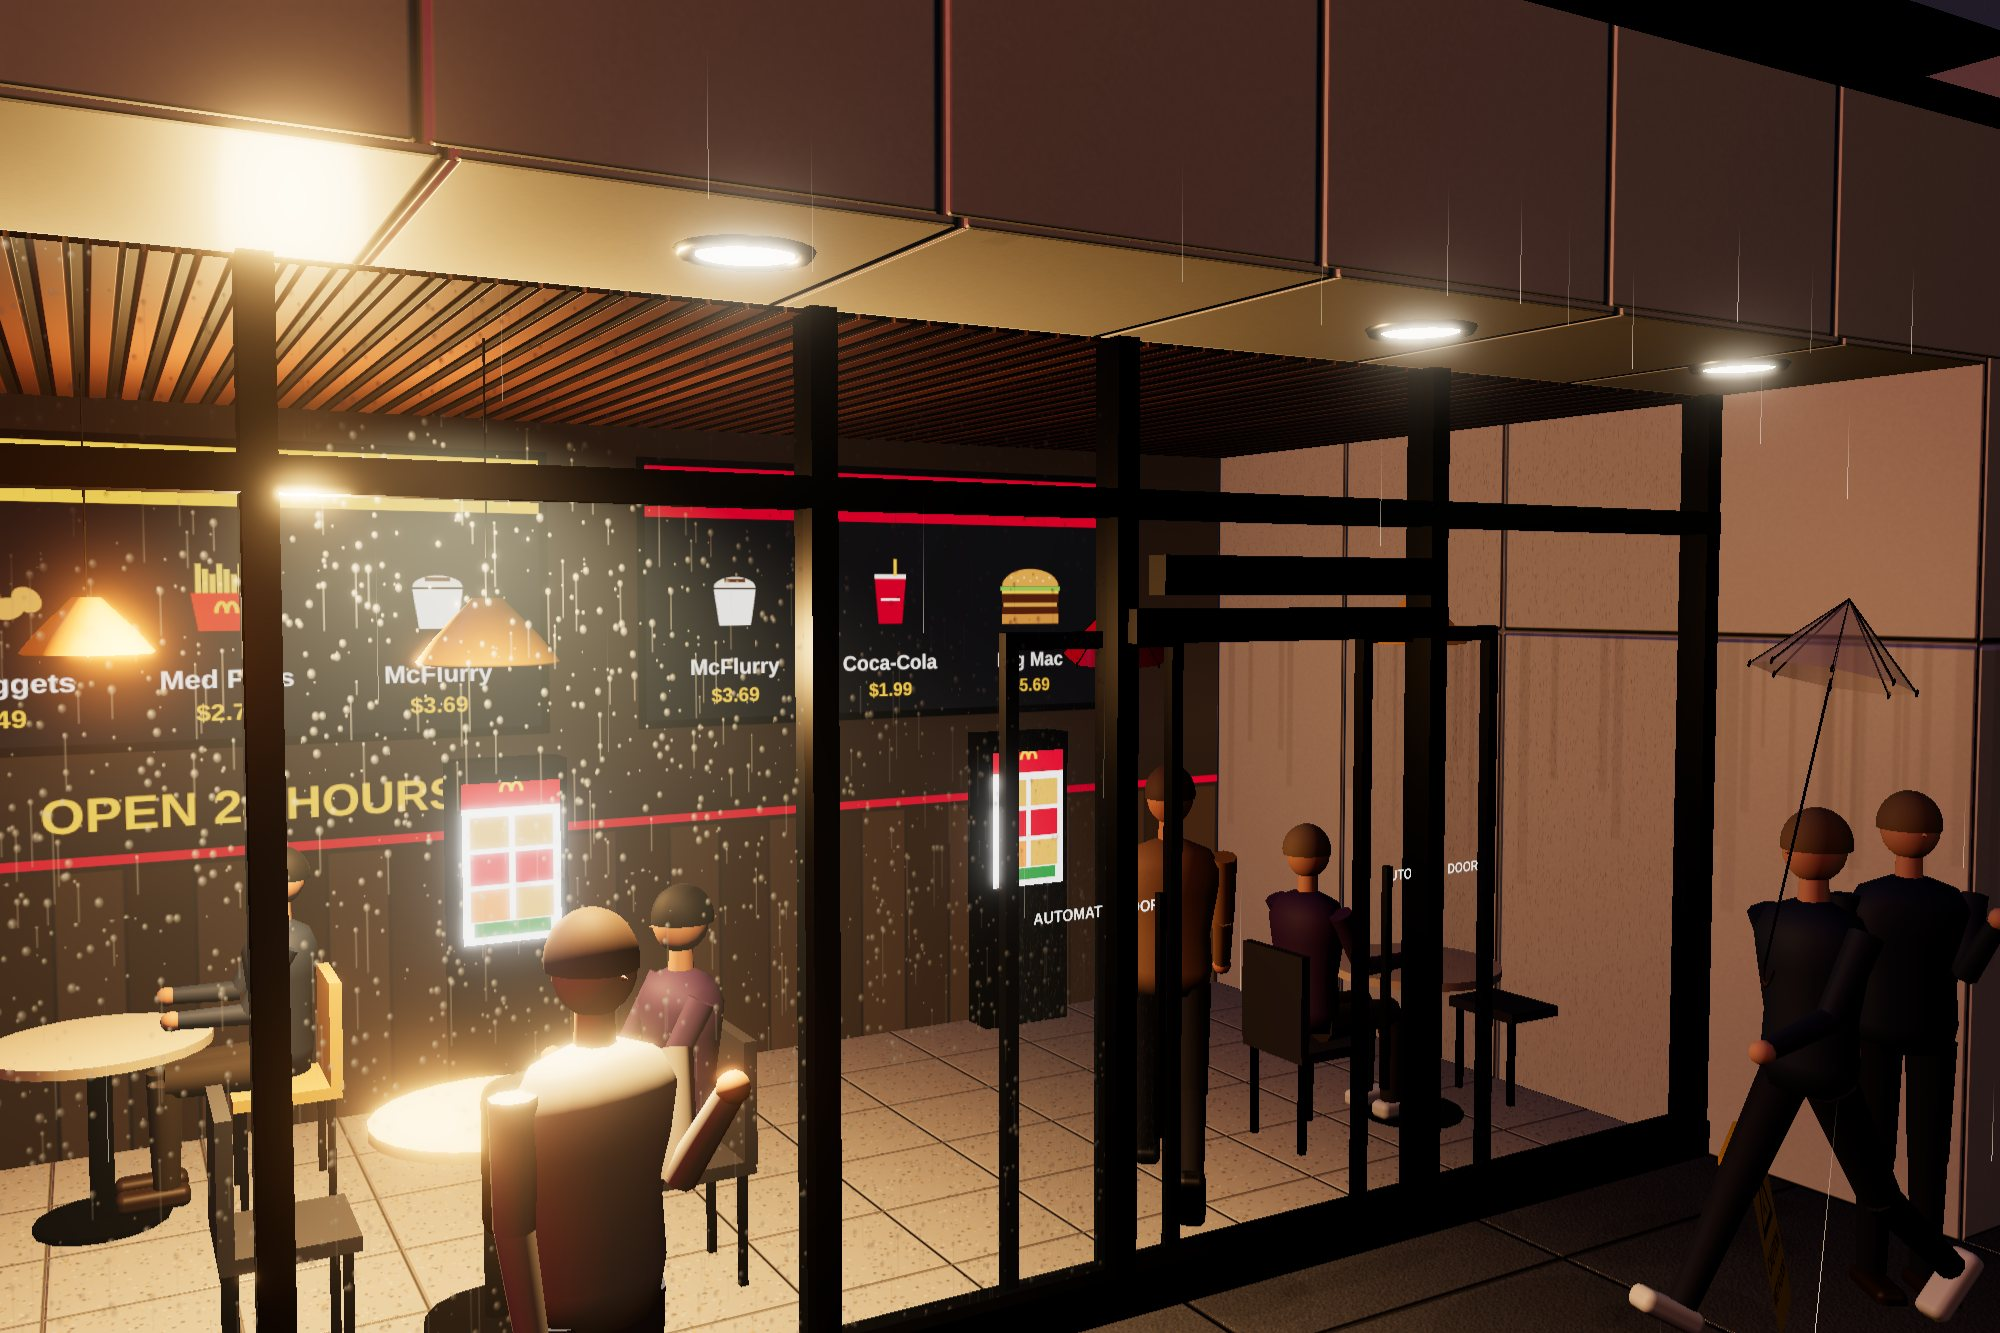
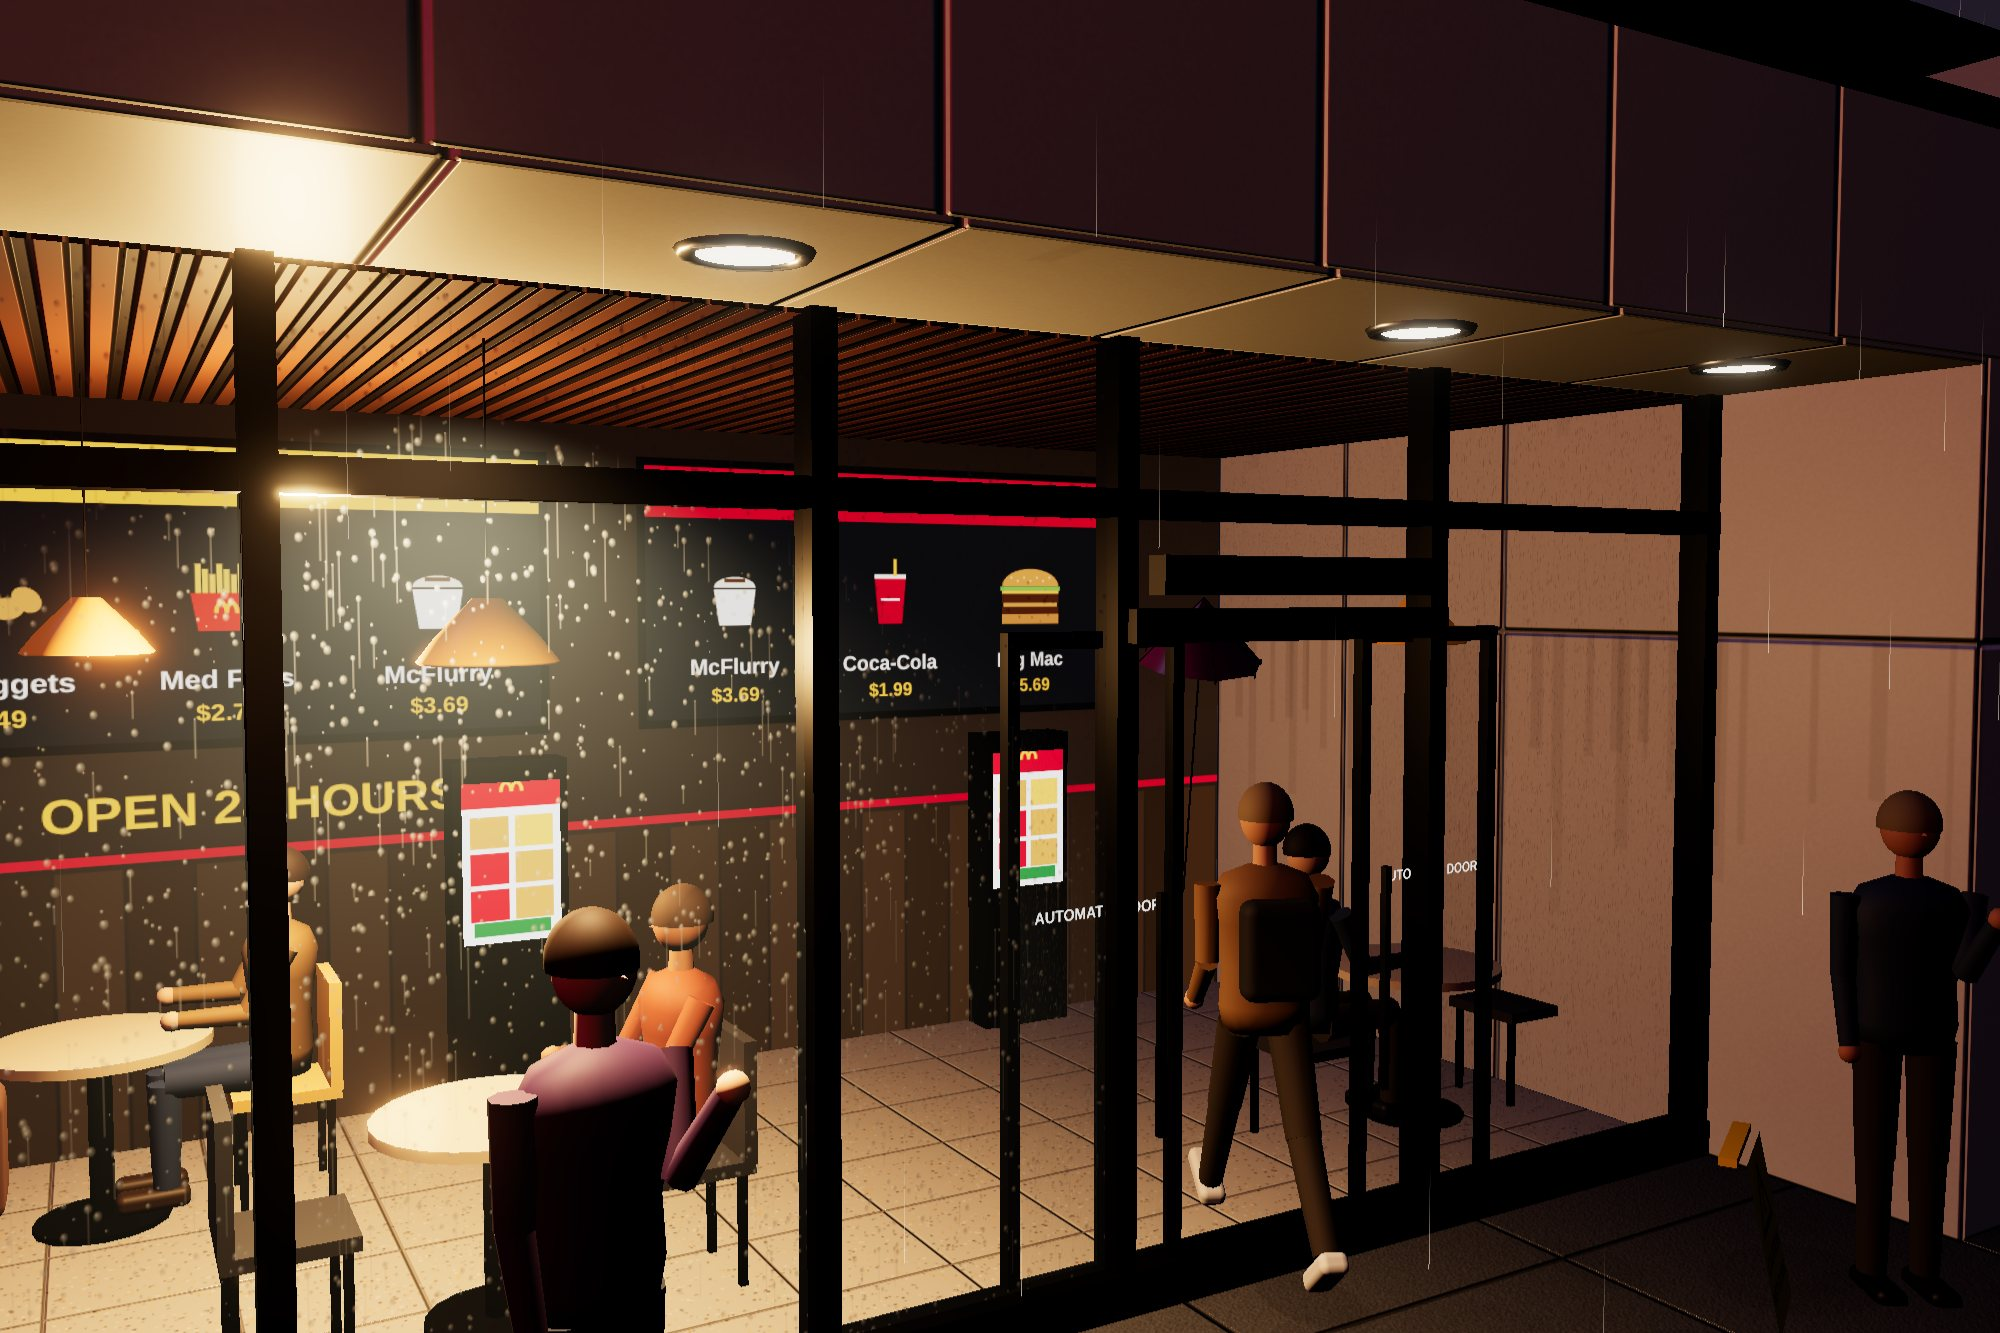
style(drive-thru): turn every glow layer down to a trace
Bloom alone was not the problem; street lamps and headlamps each stack
several glowing layers. All of them come down together:

- bloom strength 0.2 -> 0.06, radius 0.22 -> 0.15, threshold 1.05 -> 1.25
- street lamps: head 4 -> 1.5, light 110 -> 55, shaft .3 -> .07, ground
  pools roughly a quarter
- cars: headlamps 4 -> 1.5, road pools .55 -> .12, beams .12 -> .025,
  tail/brake/indicator lamps about a third
- wet-ground reflection dimmed (mirror tint 0x8794a6 -> 0x4e5560); rain
  lit by nearby lights at under half; LED strips, downlights and pendant
  bulbs a notch down
- stills re-shot; README notes the glow budget

Claude-Session: https://claude.ai/code/session_01X94E3mkS9WyU9NzztKNGpt

diff --git a/cases/library/drive-thru/drive-thru.js b/cases/library/drive-thru/drive-thru.js
@@ -432,9 +432,9 @@ const M = {
   orange: MS({ color: 0xe0782a, roughness: .5 }),
   paintW: MS({ color: 0xcfd0d1, roughness: .35, transparent: true, opacity: .85, depthWrite: false }),
   paintY: MS({ color: 0xd8ae36, roughness: .35, transparent: true, opacity: .85, depthWrite: false }),
-  led: new THREE.MeshBasicMaterial({ color: lin(2.6, 2.6, 2.45) }),
-  down: new THREE.MeshBasicMaterial({ color: lin(3, 2.6, 2) }),
-  bulb: new THREE.MeshBasicMaterial({ color: lin(4, 3, 1.6) }),
+  led: new THREE.MeshBasicMaterial({ color: lin(1.7, 1.7, 1.6) }),
+  down: new THREE.MeshBasicMaterial({ color: lin(1.6, 1.4, 1.1) }),
+  bulb: new THREE.MeshBasicMaterial({ color: lin(1.8, 1.4, .8) }),
   glass: MS({ map: glassDropTex, color: 0xd6e2ee, transparent: true, roughness: .12, metalness: .2, depthWrite: false, side: THREE.DoubleSide }),
   leaf: MS({ color: 0x1a3020, roughness: .75, flatShading: true }),
   leaf2: MS({ color: 0x23402a, roughness: .75, flatShading: true }),
@@ -546,7 +546,7 @@ const sky = new THREE.Mesh(new THREE.SphereGeometry(500, 32, 16), skyMat);
 scene.add(sky);
 
 const mirror = new Reflector(new THREE.PlaneGeometry(240, 240), {
-  textureWidth: innerWidth * DPR * .5, textureHeight: innerHeight * DPR * .5, color: 0x8794a6, clipBias: .003,
+  textureWidth: innerWidth * DPR * .5, textureHeight: innerHeight * DPR * .5, color: 0x4e5560, clipBias: .003,
 });
 mirror.rotation.x = -PI / 2; scene.add(mirror);
 asphalt.map.repeat.set(34, 34); asphalt.normal.repeat.set(34, 34); wetTex.repeat.set(4, 4);
@@ -818,8 +818,8 @@ function shaftMat(color, opacity, edge = 2) {
   });
 }
 // ---- street lamps
-const coneMat = shaftMat(0xffdcae, .3, .8);
-const lampHeadMat = new THREE.MeshBasicMaterial({ color: lin(4, 3.2, 2.2) });
+const coneMat = shaftMat(0xffdcae, .07, .8);
+const lampHeadMat = new THREE.MeshBasicMaterial({ color: lin(1.5, 1.25, .9) });
 const lampArc = new THREE.TorusGeometry(.8, .05, 6, 16, PI / 2);
 for (const x of [-42, -8, 26, 60]) {
   const z = 29.0;
@@ -828,8 +828,8 @@ for (const x of [-42, -8, 26, 60]) {
   strut([x, 8.8, z + .8], [x, 8.8, z + 2.2], .05, M.black);
   rbox(.5, .14, 1.0, .05, M.black, x, 8.75, z + 2.45);
   const head = new THREE.Mesh(new THREE.PlaneGeometry(.38, .82), lampHeadMat); head.rotation.x = PI / 2; head.position.set(x, 8.67, z + 2.45); P.add(head);
-  if (x === -8 || x === 26) pointLight(0xffc98f, 110, 30, x, 8.4, z + 2.45);
-  lightPool(x, z + 2.45, 16, 0xffc98f, x === -8 || x === 26 ? .25 : .7);
+  if (x === -8 || x === 26) pointLight(0xffc98f, 55, 26, x, 8.4, z + 2.45);
+  lightPool(x, z + 2.45, 14, 0xffc98f, x === -8 || x === 26 ? .06 : .16);
   const cone = new THREE.Mesh(new THREE.CylinderGeometry(.25, 4.6, 8.5, 24, 1, true), coneMat); cone.position.set(x, 4.35, z + 2.45); P.add(cone);
 }
 // ---- distant city
@@ -875,9 +875,9 @@ pointLight(0xffc27a, 24, 12, -6.7, 2.5, 8.8);              // dining room
 downLight(warm, 60, 14, 8.5, 4.5, 11.8, .85);             // timber-box canopy
 downLight(warm, 110, 15, 15.2, 4.5, 2.5, 1.2);            // drive-thru canopy and windows
 pointLight(0xff2a20, 70, 30, -16.2, 10, 13.8);             // pylon
-lightPool(-16.4, 14, 12, 0xffb030, .35);                   // arches glow
-lightPool(1.6, -12.6, 6, 0xdfe8ff, .5);                    // menu board
-lightPool(-.4, 11.5, 10, 0xffffff, .12);                   // sign wash
+lightPool(-16.4, 14, 12, 0xffb030, .1);                    // arches glow
+lightPool(1.6, -12.6, 6, 0xdfe8ff, .15);                   // menu board
+lightPool(-.4, 11.5, 10, 0xffffff, .04);                   // sign wash
 
 // ================================================================ drive-thru path
 const curve = new THREE.CatmullRomCurve3([
@@ -933,10 +933,10 @@ const trimMat = MS({ color: 0x0e0f11, roughness: .5, metalness: .2 });
 const tyreMat = MS({ color: 0x121212, roughness: .85 });
 const rimMat = MS({ color: 0xc4c8ce, roughness: .18, metalness: 1 });
 const rimDark = MS({ color: 0x1a1b1d, roughness: .4, metalness: .6 });
-const headOn = new THREE.MeshBasicMaterial({ color: lin(4, 3.9, 3.5) });
+const headOn = new THREE.MeshBasicMaterial({ color: lin(1.5, 1.45, 1.3) });
 const headOff = MS({ color: 0x8a8a8a, roughness: .15, metalness: .8 });
-const poolMat = new THREE.MeshBasicMaterial({ map: poolTex, color: lin(.55, .5, .42), blending: THREE.AdditiveBlending, transparent: true, depthWrite: false });
-const beamMat = shaftMat(0xfff1d6, .12);
+const poolMat = new THREE.MeshBasicMaterial({ map: poolTex, color: lin(.12, .11, .09), blending: THREE.AdditiveBlending, transparent: true, depthWrite: false });
+const beamMat = shaftMat(0xfff1d6, .025);
 const driverMat = MS({ color: 0x1a1512, roughness: .8 });
 
 const TYPES = {
@@ -1114,9 +1114,9 @@ function updateCars(dt) {
       if (c.wait <= 0) { c.stop++; c.wait = null; if (c.stop === 3) served++; }
     }
     const braking = c.v < .25 || c.v < pv - .01;
-    c.tail.color.setRGB(braking ? 6 : 1.6, braking ? .12 : .03, .03);
+    c.tail.color.setRGB(braking ? 2.2 : .9, braking ? .05 : .02, .02);
     const turning = (c.s > sLotIn - 26 && c.s < sLotIn + 2) || (c.s > sLotOut - 14 && c.s < sLotOut + 8);
-    c.indL.color.setRGB(turning && blink ? 5 : .25, turning && blink ? 2 : .1, 0);
+    c.indL.color.setRGB(turning && blink ? 2.2 : .25, turning && blink ? .9 : .1, 0);
     placeCar(c); animCar(c, dt);
   }
   while (cars.length && cars[0].s >= L - .5) { const c = cars.shift(); freeCar(c); if (follow === c) follow = null; }
@@ -1127,7 +1127,7 @@ function updateCars(dt) {
   if (trafficT <= 0) { const c = getCar(); c.g.position.set(110, 0, 37.2); c.g.rotation.y = -PI / 2; c.v = 13; traffic.push(c); trafficT = rand(3, 9); }
   for (let i = traffic.length - 1; i >= 0; i--) {
     const c = traffic[i]; c.g.position.x -= c.v * dt; animCar(c, dt);
-    c.tail.color.setRGB(1.6, .03, .03); c.indL.color.setRGB(.25, .1, 0);
+    c.tail.color.setRGB(.9, .02, .02); c.indL.color.setRGB(.25, .1, 0);
     if (c.g.position.x < -110) { freeCar(c); traffic.splice(i, 1); }
   }
   return cars.filter(c => c.s > sLotIn - 4 && c.stop < 3).length;
@@ -1432,7 +1432,7 @@ const rainMat = new THREE.ShaderMaterial({
     void main(){
       if (underRoof(vW) || vW.y < 0.0) discard;
       vec3 c = vec3(0.10,0.12,0.16) + uFlash*vec3(0.5,0.55,0.7);
-      for(int i=0;i<8;i++){ vec3 d = vW-uL[i]; c += uC[i]*1.6/(1.0+dot(d,d)*0.05); }
+      for(int i=0;i<8;i++){ vec3 d = vW-uL[i]; c += uC[i]*.7/(1.0+dot(d,d)*0.05); }
       float a = mix(1.0, 0.1, vTip) * vFade * uOpacity;
       gl_FragColor = vec4(c*a*0.55, a);
     }`,
@@ -1523,7 +1523,7 @@ composer.addPass(new ShaderPass({
       gl_FragColor = vec4(min(c.rgb, vec3(48.0)), c.a);
     }`,
 }));
-const bloom = new UnrealBloomPass(new THREE.Vector2(innerWidth, innerHeight), .2, .22, 1.05);   // a restrained halo, not a haze
+const bloom = new UnrealBloomPass(new THREE.Vector2(innerWidth, innerHeight), .06, .15, 1.25);   // only a trace of halo on the brightest emitters
 composer.addPass(bloom);
 composer.addPass(new OutputPass());
 

diff --git a/cases/library/drive-thru/README.md b/cases/library/drive-thru/README.md
@@ -59,9 +59,11 @@ its third frame, which is what to wait for before a screenshot.
   the till between cars; when a car stops at their window the sliding half
   opens and they reach out with a card reader (pay) or the bag (pickup).
   Their fill light is a small emissive term on their materials, not a lamp.
-- **Glow is restrained on purpose** (`UnrealBloomPass` strength 0.2, radius
-  0.22, threshold 1.05): only the LED strips, signs and lamps bloom, and only
-  a little.
+- **Glow is kept to a trace on purpose.** Bloom is strength 0.06, radius
+  0.15, threshold 1.25, and every other glow layer is held down with it: lamp
+  heads, light shafts and ground pools, headlamps and their road pools, tail
+  lights, the wet-ground reflection (mirror tint `0x4e5560`) and the rain lit
+  by nearby lights. Raise them together, or the scene goes muddy.
 - **Signage** is drawn by `dtex`, which registers a redraw; the language
   switch calls every redraw. Add a sign there and it is bilingual for free —
   the strings live in `S.en` / `S.zh`, the panel's in `UI.en` / `UI.zh`.
